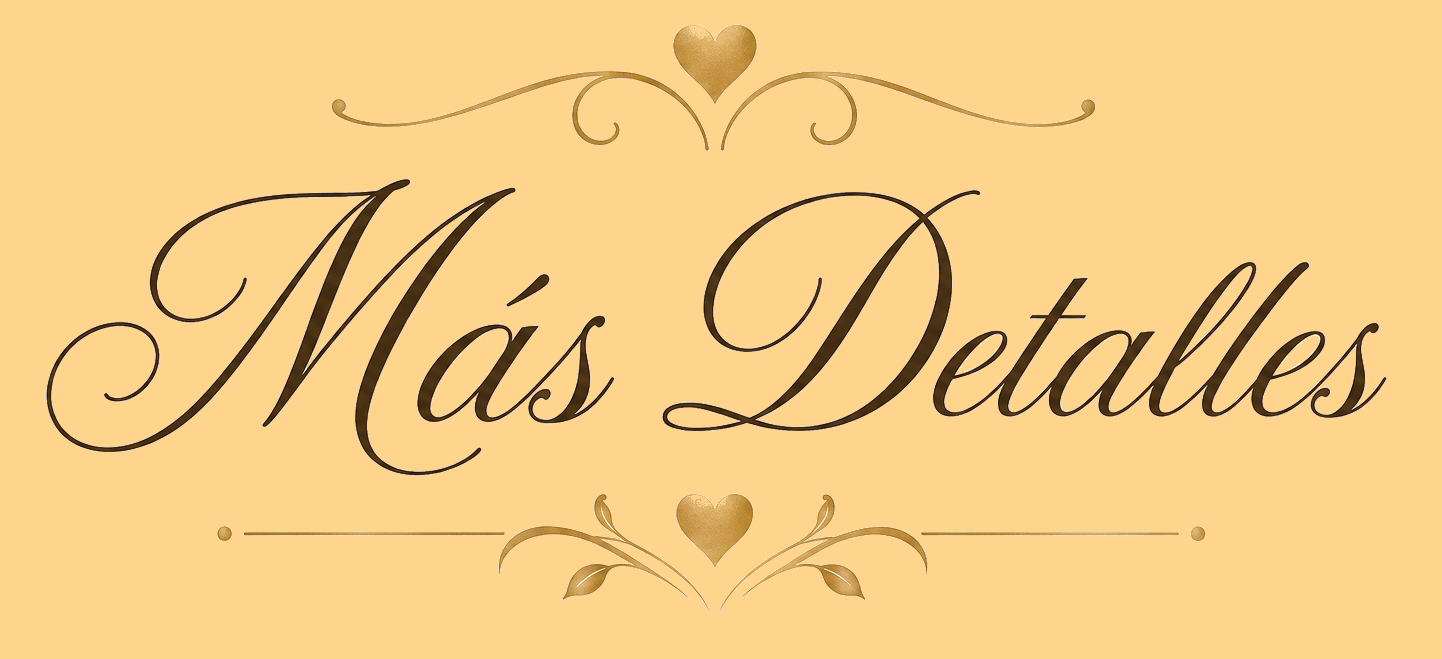
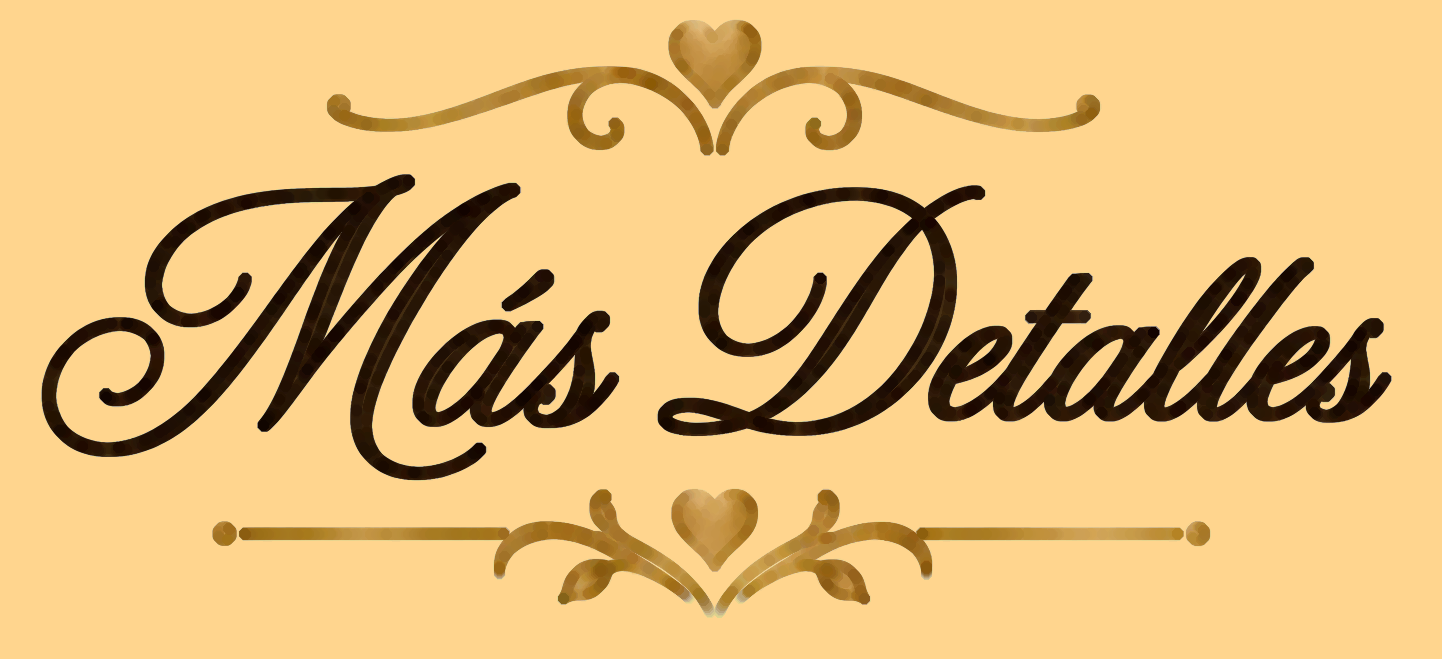
crecicmiento de anillos

Changed region(s): [[0.0312, 0.2731, 0.9674, 0.7284], [0.1248, 0.7284, 0.8426, 0.9408], [0.2184, 0.0303, 0.7802, 0.2428]]

diff --git a/recursos/estilos.css b/recursos/estilos.css
@@ -151,7 +151,7 @@ html, body { /*afecta a todo el cuerpo del documento*/
 .link2{ /*afecta a la seccion link*/
     bottom: 2dvh; /* define la distancia del link con respecto al borde inferior de la pantalla */
     font-family: "fuente"; /*define el tipo de fuente*/
-    font-size: 20px; /*define el tamaño de fuente*/
+    font-size: 22px; /*define el tamaño de fuente*/
     text-decoration: none; /*le quita el subrayado al link*/
     color: #7f6000; /*define el color de fuente*/
     background:transparent; /*define el color de fondo*/
@@ -323,7 +323,7 @@ html, body { /*afecta a todo el cuerpo del documento*/
     transform:translate(0%, -50%); 
     z-index: 2; 
      animation-name: animacionAnillos; /*se declara una animacion con el nombre de "fondo"*/
-    animation-duration: 4s; /*se declara la duracion de la animacion*/
+    animation-duration: 1.4s; /*se declara la duracion de la animacion*/
     animation-iteration-count: infinite; /*se declara las veces que se reproducira la animacion*/
     animation-play-state: running; /*se declara si el estado de pausa/play*/
     animation-direction: alternate-reverse; /*se declara el sentido de reproduccion*/
@@ -335,19 +335,22 @@ html, body { /*afecta a todo el cuerpo del documento*/
         left: 40vw;
         top: 50%;
         transform:translate(0%, -50%); 
-        rotate: -5deg;
+        rotate: 3deg;
+        
     }
-    50% {width: 20vw;
+    80% {width: 20vw;
         left: 40vw;
         top: 50%;
         transform:translate(0%, -50%); 
-        rotate: 0deg;
+        
+        
     }
-   100%{ width: 20vw;
-        left: 40vw;
+   100%{ width:21vw;
+        left: 39.5vw;
         top: 50%;
-        transform:translate(0%, -50%); 
-        rotate: 5deg;
+        transform:translate(0%, -60%); 
+        rotate: -3deg;  
+        
     }
 }
 #VJ1{ /*afecta a la seccion fondoInvitacion*/

diff --git a/recursos/scriptInvitacion.js b/recursos/scriptInvitacion.js
@@ -100,8 +100,8 @@ fondoIntro.style.opacity = "1"; // muestra el contenido del documento
       VJ2.style.opacity = (tiempo-1200)/1600; // en la seccion "fondoInvitacion" se altera la propiedad css width
       VJ2.style.rotate =  (-1*(tiempo-1200)/533) + "deg"; // en la seccion "fondoInvitacion" se altera la propiedad css width
     } 
-    if (2500<=tiempo && tiempo<=4000) {
-      anillos0.style.opacity = (tiempo-2500)/1500; // en la seccion "fondoInvitacion" se altera la propiedad css width
+    if (2900<=tiempo && tiempo<=4000) {
+      anillos0.style.opacity = (tiempo-2900)/1100; // en la seccion "fondoInvitacion" se altera la propiedad css width
     } 
   }
 
